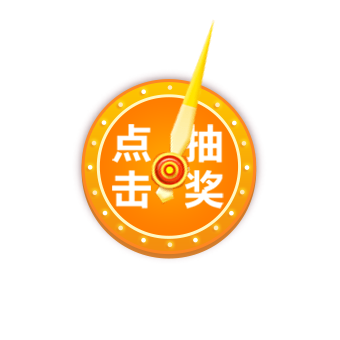
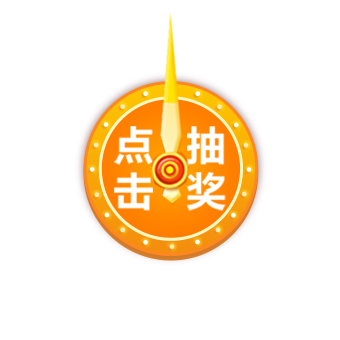
1

Changed region(s): [[0.2353, 0.0294, 0.7647, 0.7647]]

diff --git a/lazy/index.html b/lazy/index.html
@@ -79,19 +79,20 @@
         overflow: hidden;
         text-align: center;
         left: 0;
-        top: 4.4rem;
+        top: 4.84rem;
         width: 100%;
     }
     
     .turntable_box .r {
-        width: 6.44rem;
-        height: 6.44rem;
+        width: 5.43rem;
+        height: 5.43rem;
+        margin-left: -0.1rem;
     }
     
     .turntable_box .b {
         position: absolute;
-        top: 29.8%;
-        left: 32.5%;
+        top: 29%;
+        left: 34%;
         height: 40%;
         width: auto;
         cursor: pointer;
